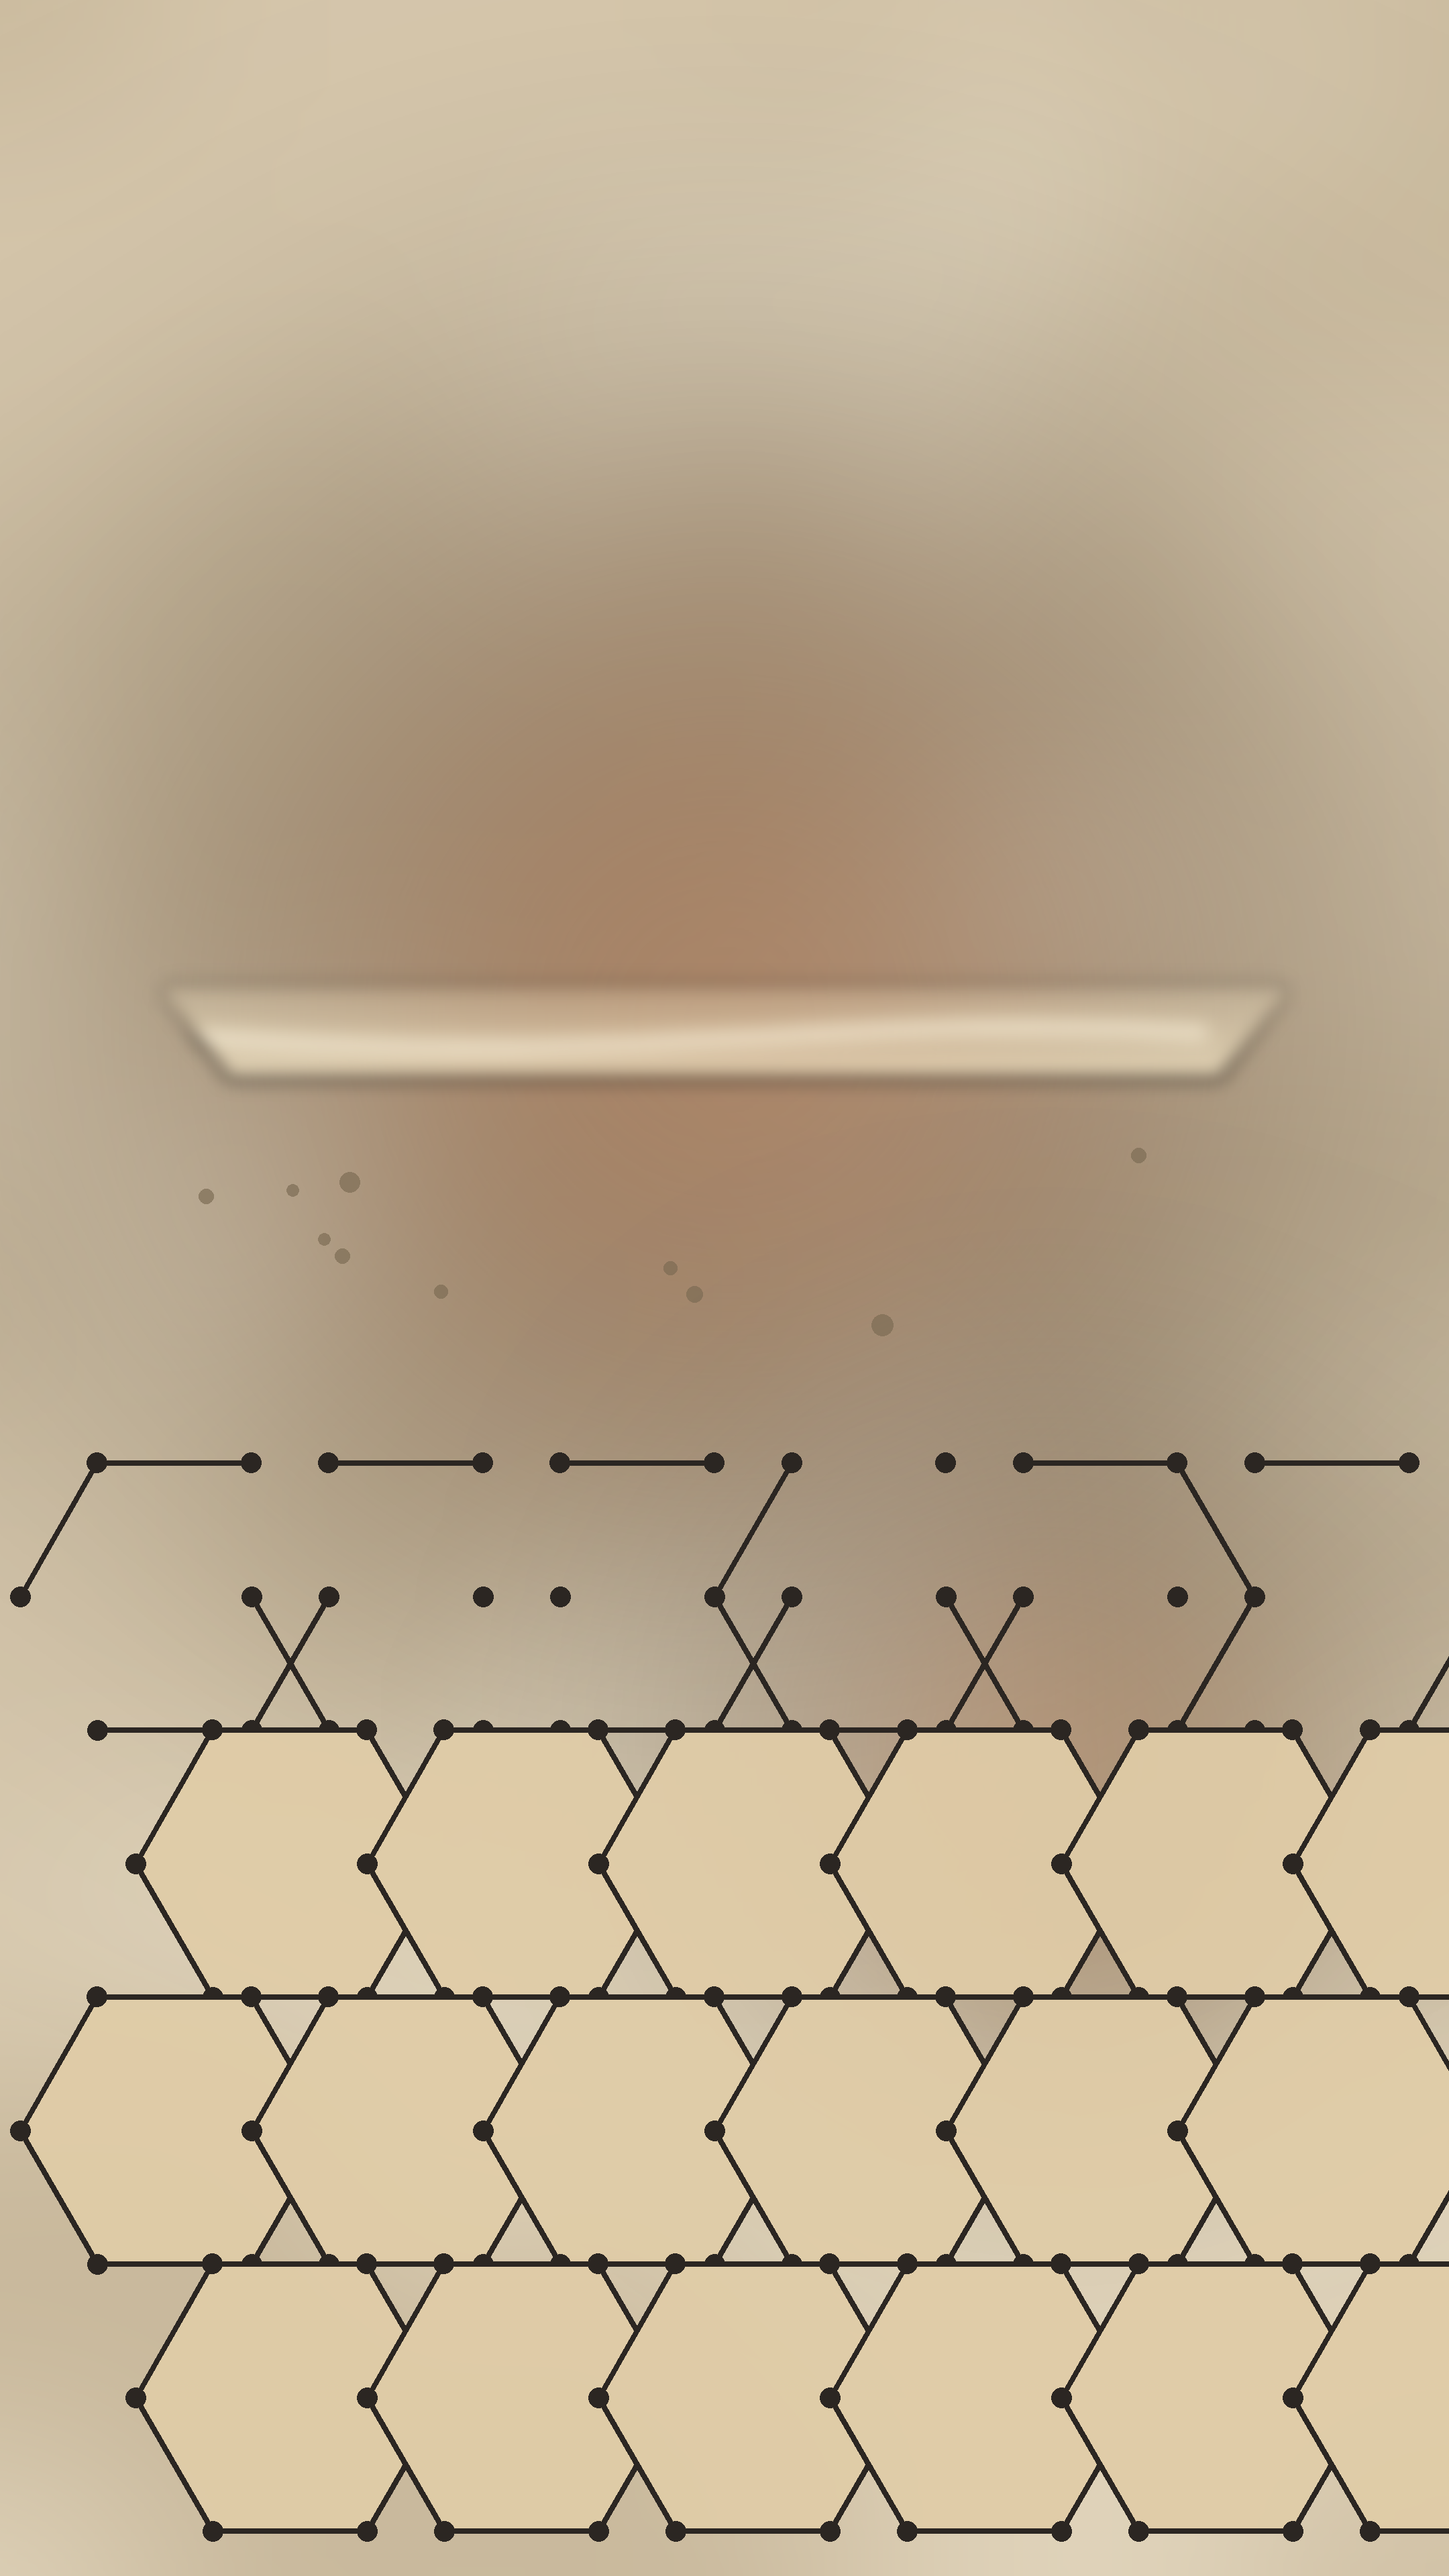
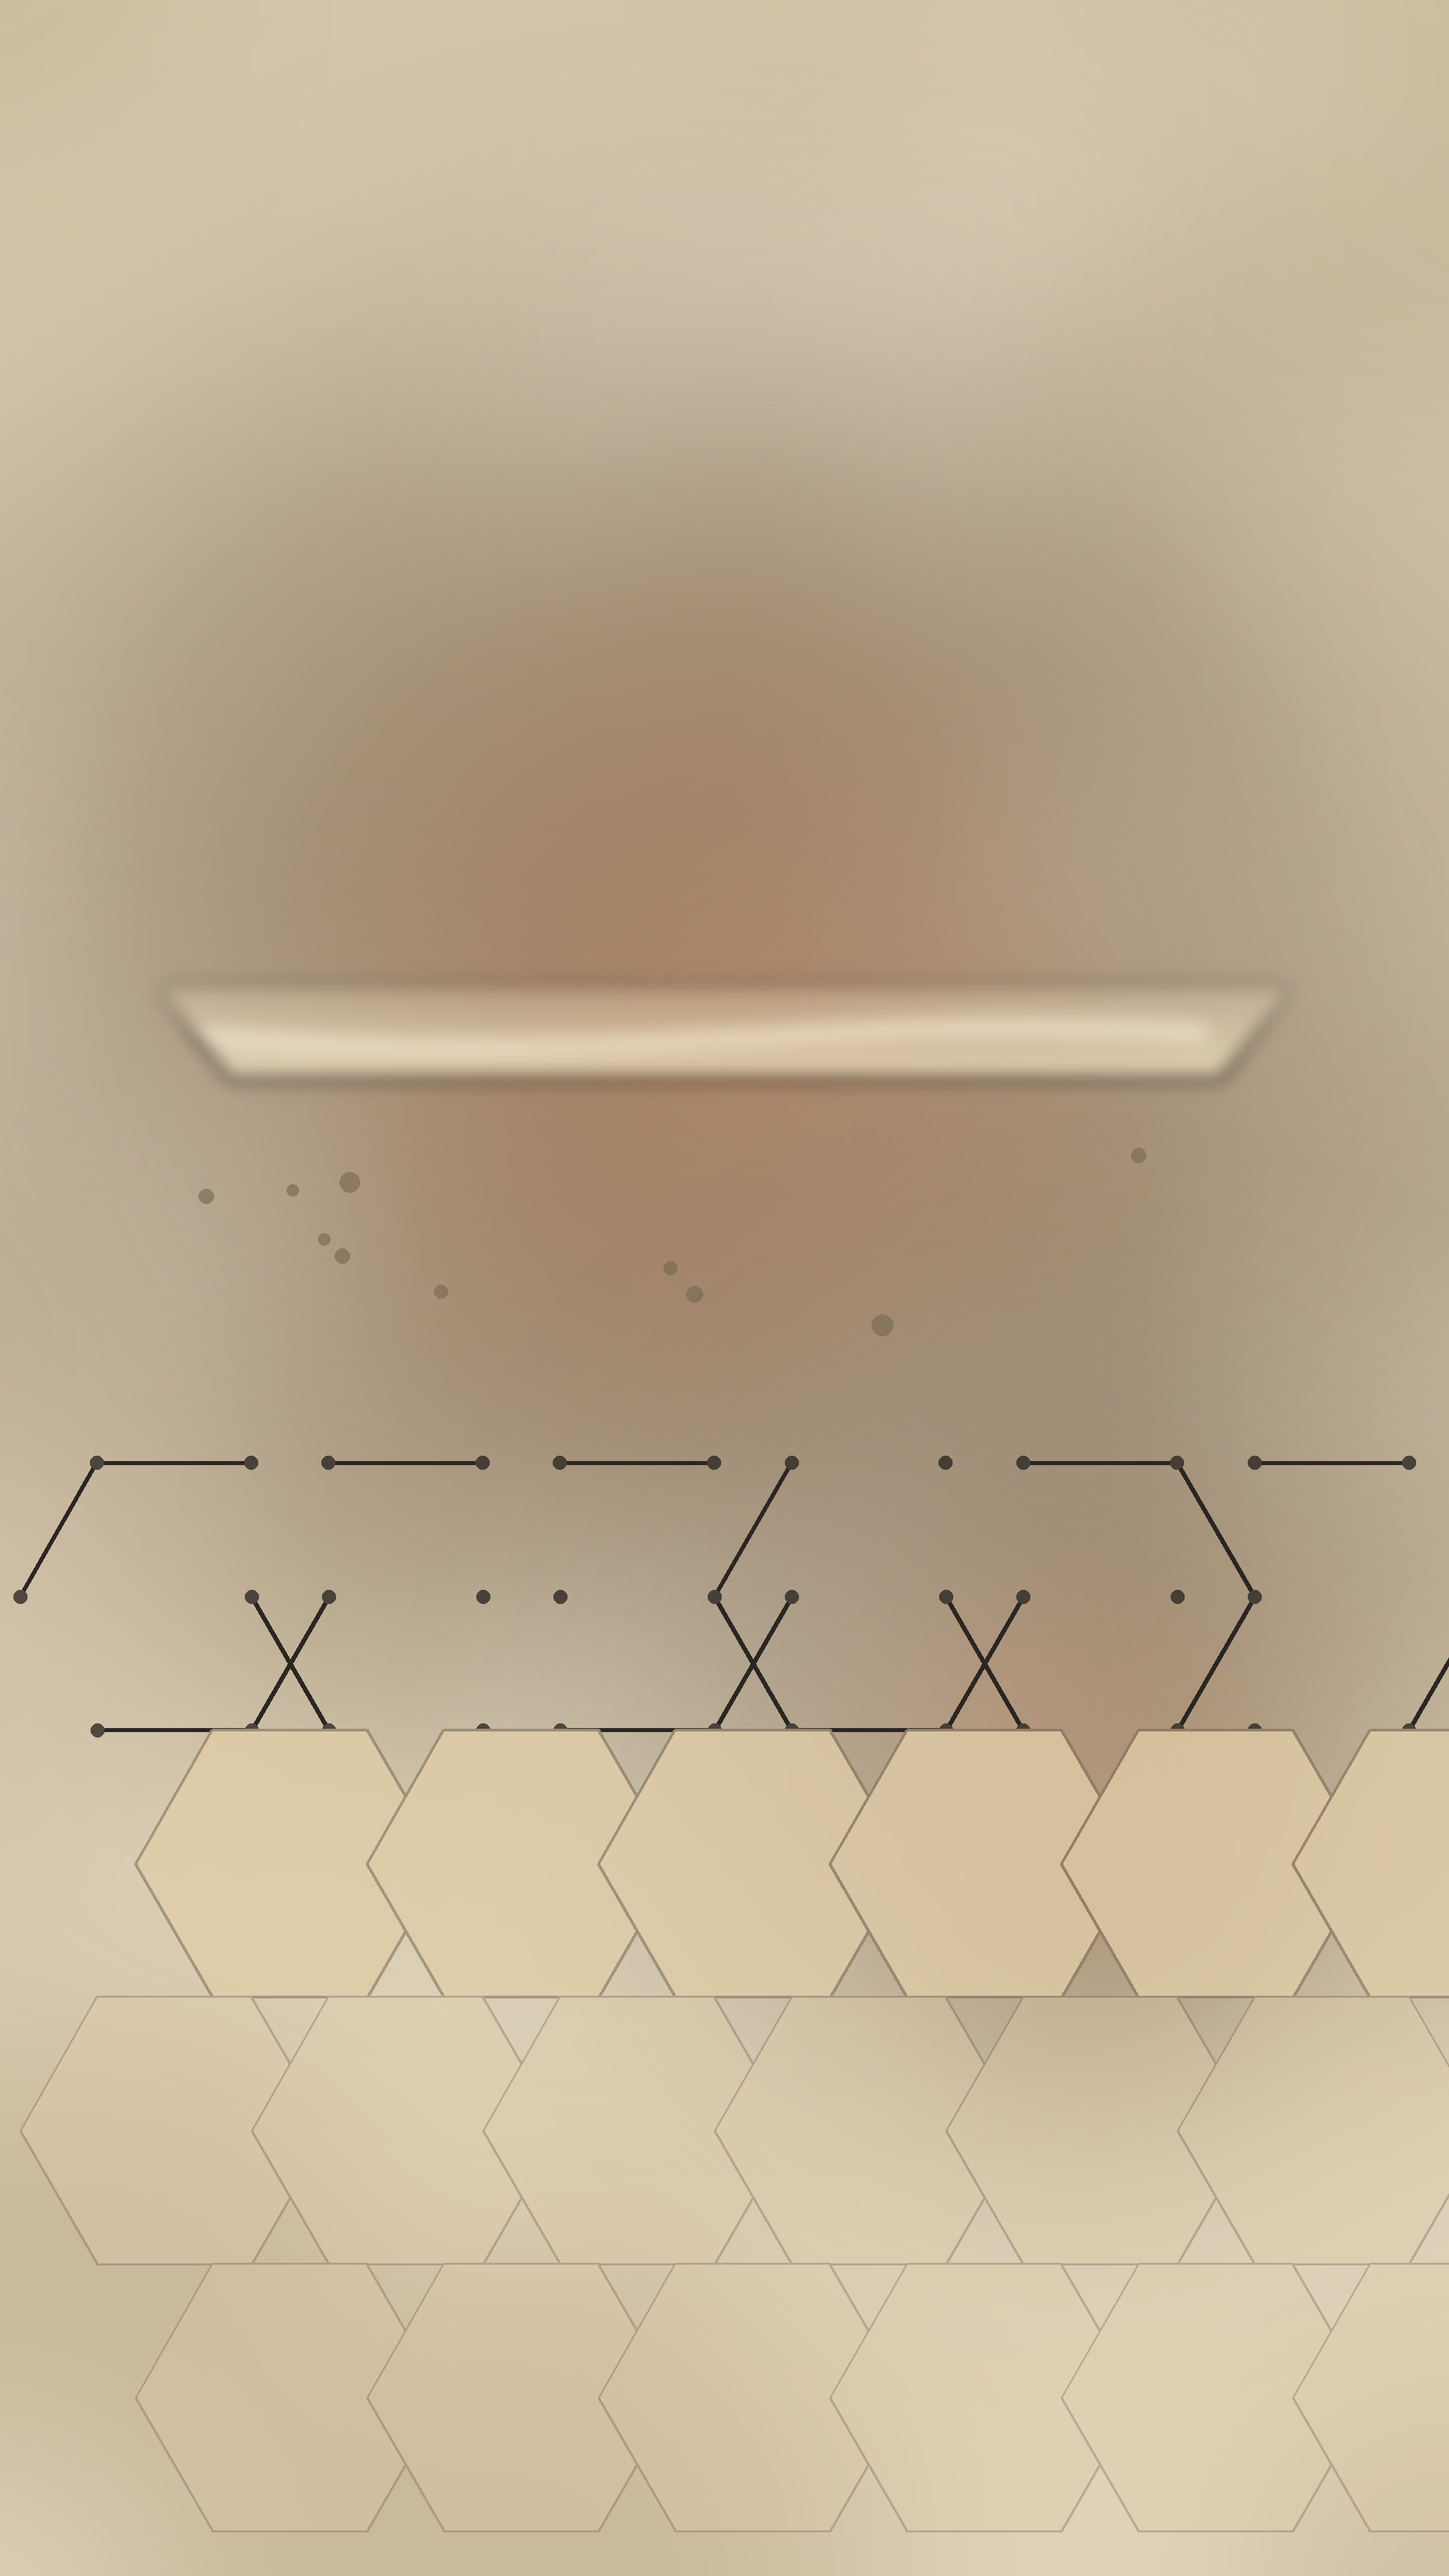
V13 ice_slippery: B4 lattice fade — caption-band glyph texture 0.051->0.012 (QA mask verified); gap frames confirm no caption text, plate art was sole source

diff --git a/illustrated_engine/stories/ice_slippery/make_plates.py b/illustrated_engine/stories/ice_slippery/make_plates.py
@@ -238,8 +238,17 @@ def card_b4() -> Image.Image:
     side = 230
     row_step = int(side * math.sqrt(3))          # 398: true honeycomb pitch
     rows = 4
+    # row styling: the dense ink node-dots + 8px outlines in the lower rows
+    # land in the caption band / below-card region at S04's zoom and read as
+    # glyph texture (measured band_frac 0.032-0.045 vs 0.02 limit, leak
+    # probes at t=26.5/30.6) — lower rows fade to ghost context
+    ROW_STYLE = {0: (INK + (255,), 6, 10, INK + (200,), 235),
+                 1: (SEPIA + (140,), 4, 0, None, 200),
+                 2: (SEPIA + (100,), 3, 0, None, 90),
+                 3: (SEPIA + (95,), 3, 0, None, 70)}
     for row in range(rows):
         cy = 2380 + row * row_step
+        edge_c, edge_w, node_r, node_c, fill_a = ROW_STYLE[row]
         broken = (row == 0)
         for i in range(6):
             cx = 260 + i * int(1.5 * side) + (int(0.75 * side) if row % 2 else 0)
@@ -248,13 +257,14 @@ def card_b4() -> Image.Image:
                 # topmost row breaking open: dashed edges + loose nodes
                 for a, b in zip(hexs, hexs[1:] + hexs[:1]):
                     if rng.random() < 0.55:
-                        d.line([a, b], fill=INK + (255,), width=8)
+                        d.line([a, b], fill=edge_c, width=edge_w)
             else:
-                d.polygon(hexs, fill=(224, 204, 167, 235))
-                d.line(hexs + [hexs[0]], fill=INK + (255,), width=8)
-            for (vx, vy) in hexs:
-                d.ellipse([vx - 15, vy - 15, vx + 15, vy + 15],
-                          fill=INK + (255,))
+                d.polygon(hexs, fill=(224, 204, 167, fill_a))
+                d.line(hexs + [hexs[0]], fill=edge_c, width=edge_w)
+            if node_r:
+                for (vx, vy) in hexs:
+                    d.ellipse([vx - node_r, vy - node_r, vx + node_r, vy + node_r],
+                              fill=node_c)
     # loose molecules: few, sepia, soft — ink stipple clusters read as
     # dot-matrix text in caption-band probes
     for _ in range(10):
